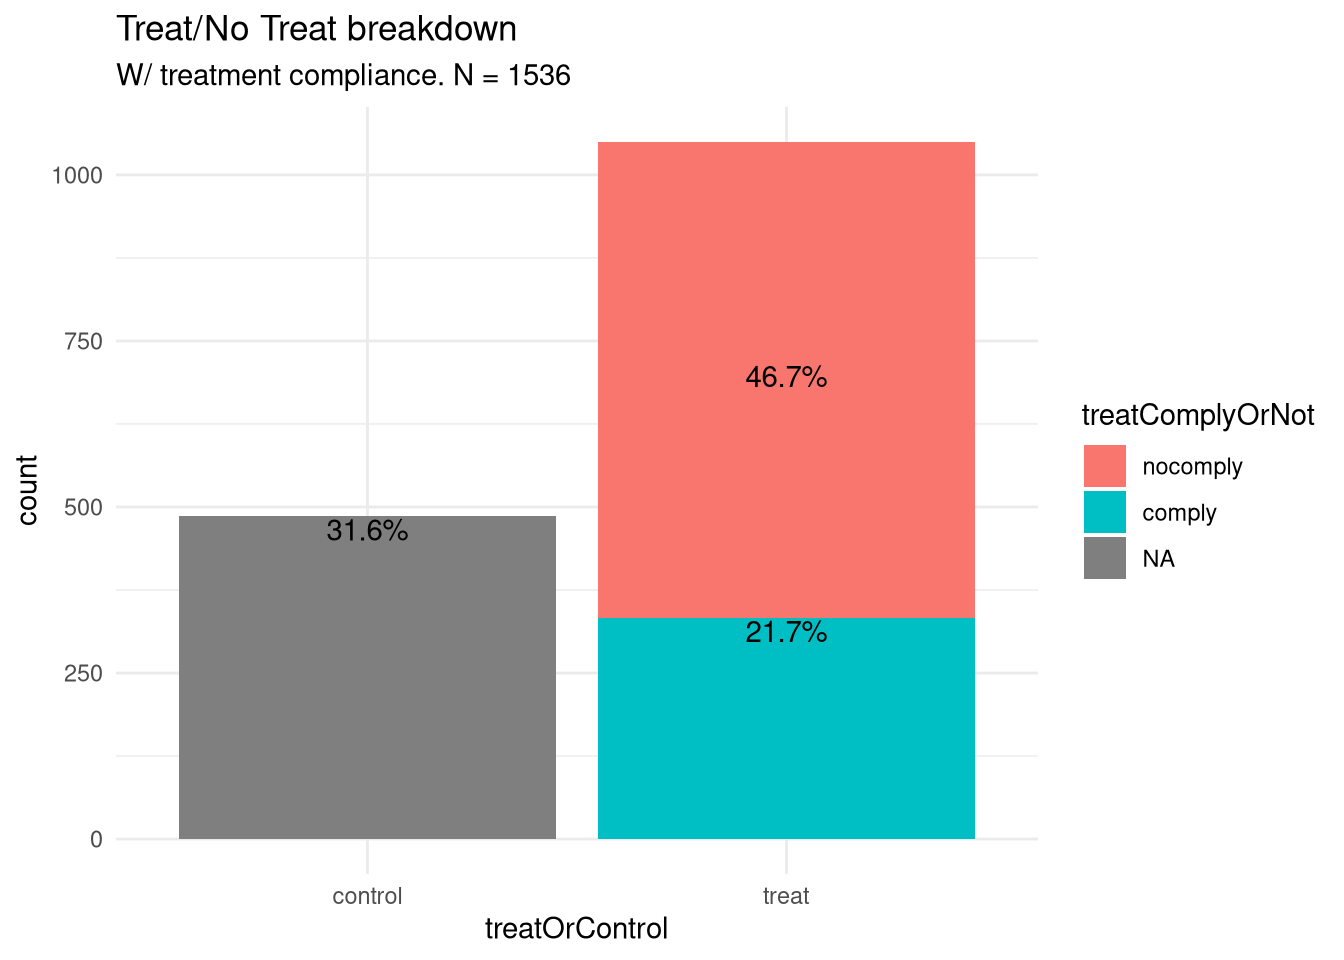
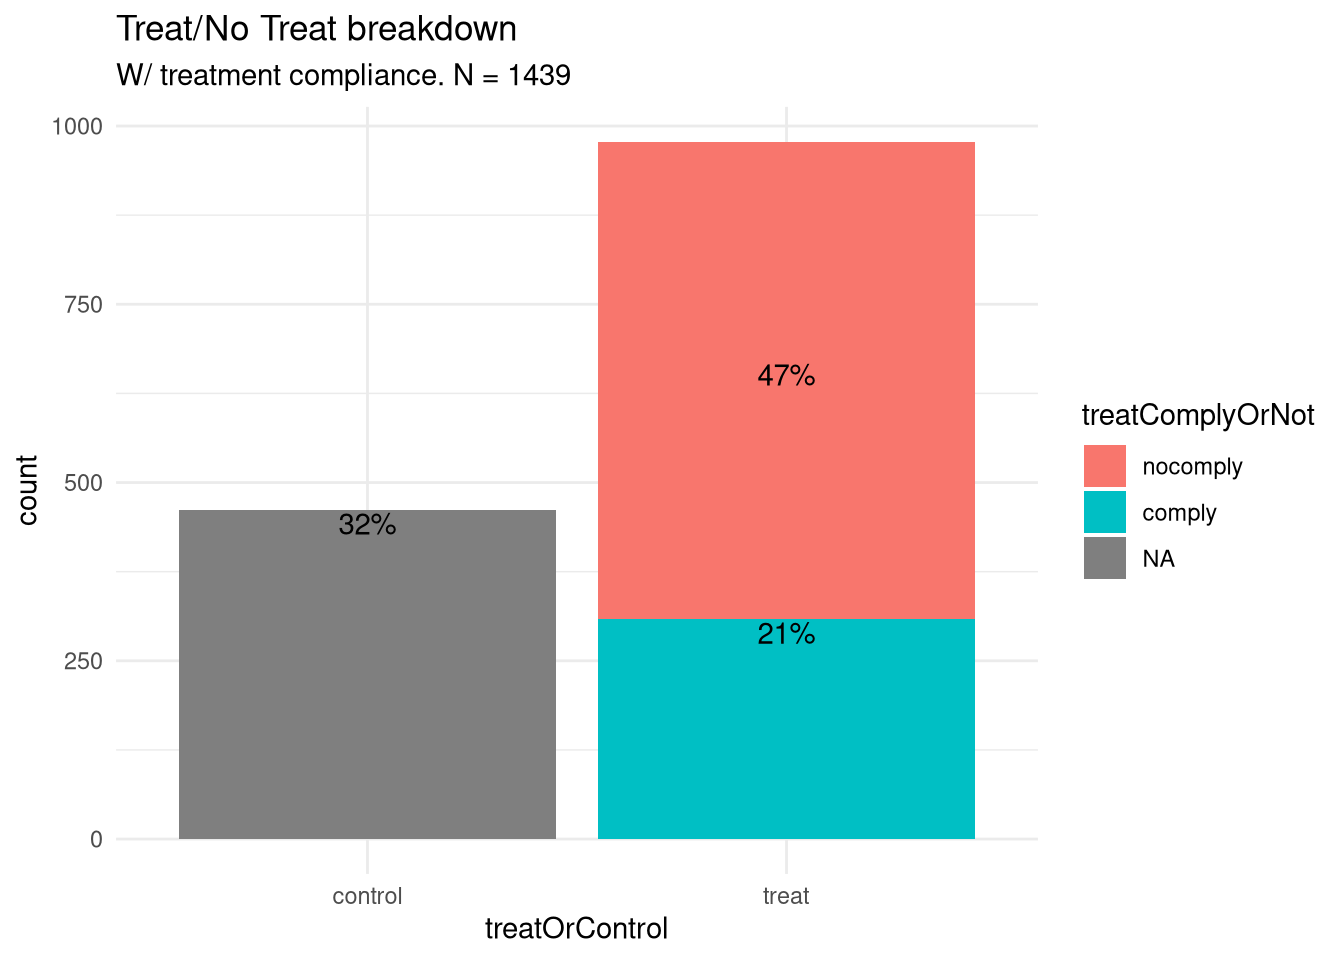
Build site.

diff --git a/docs/summaryStats.html b/docs/summaryStats.html
@@ -409,7 +409,7 @@ div.section {
 <div class="tab-content">
 <div id="summary" class="tab-pane fade in active">
 <p>
-<strong>Last updated:</strong> 2020-03-12
+<strong>Last updated:</strong> 2020-03-13
 </p>
 <p>
 <strong>Checks:</strong> <span class="glyphicon glyphicon-ok text-success" aria-hidden="true"></span> 7 <span class="glyphicon glyphicon-exclamation-sign text-danger" aria-hidden="true"></span> 0
@@ -500,10 +500,10 @@ This reproducible <a href="http://rmarkdown.rstudio.com">R Markdown</a> analysis
 <div class="panel panel-default">
 <div class="panel-heading">
 <p class="panel-title">
-<a data-toggle="collapse" data-parent="#workflowr-checks" href="#strongRepositoryversionstrongahrefhttpsgithubcomshugamoecleanittreed7437a97e2d5e5f9f77a126013894647ae4c606ftargetblankd7437a9a"> <span class="glyphicon glyphicon-ok text-success" aria-hidden="true"></span> <strong>Repository version:</strong> <a href="https://github.com/shugamoe/cleanit/tree/d7437a97e2d5e5f9f77a126013894647ae4c606f" target="_blank">d7437a9</a> </a>
+<a data-toggle="collapse" data-parent="#workflowr-checks" href="#strongRepositoryversionstrongahrefhttpsgithubcomshugamoecleanittreed28a35d62b3b5099a0060314b84d80ab0f6abdb4targetblankd28a35da"> <span class="glyphicon glyphicon-ok text-success" aria-hidden="true"></span> <strong>Repository version:</strong> <a href="https://github.com/shugamoe/cleanit/tree/d28a35d62b3b5099a0060314b84d80ab0f6abdb4" target="_blank">d28a35d</a> </a>
 </p>
 </div>
[2 lines of base64/hex data omitted]
 <div class="panel-body">
 <p>
 Great! You are using Git for version control. Tracking code development and connecting the code version to the results is critical for reproducibility. The version displayed above was the version of the Git repository at the time these results were generated. <br><br> Note that you need to be careful to ensure that all relevant files for the analysis have been committed to Git prior to generating the results (you can use <code>wflow_publish</code> or <code>wflow_git_commit</code>). workflowr only checks the R Markdown file, but you know if there are other scripts or data files that it depends on. Below is the status of the Git repository when the results were generated:
@@ -557,6 +557,40 @@ Message
 </tr>
 </thead>
 <tbody>
+<tr>
+<td>
+Rmd
+</td>
+<td>
+<a href="https://github.com/shugamoe/cleanit/blob/d28a35d62b3b5099a0060314b84d80ab0f6abdb4/analysis/summaryStats.Rmd" target="_blank">d28a35d</a>
+</td>
+<td>
+Julian Chew McClellan
+</td>
+<td>
+2020-03-13
+</td>
+<td>
+Filter non-sensical expectation ratios out of price beliefs. First pass
+</td>
+</tr>
+<tr>
+<td>
+html
+</td>
+<td>
+<a href="https://rawcdn.githack.com/shugamoe/cleanit/e86831f704a36ac3f2492c48a651da150444be63/docs/summaryStats.html" target="_blank">e86831f</a>
+</td>
+<td>
+Julian McClellan
+</td>
+<td>
+2020-03-12
+</td>
+<td>
+Build site.
+</td>
+</tr>
 <tr>
 <td>
 Rmd
@@ -864,9 +898,9 @@ wflow_publish(knitr_in(“analysis/summaryStats.Rmd”), view = T, verbose
 <h2>Clean Sample</h2>
 <ul>
 <li>Initial Size: 2449</li>
-<li>Remove blank email addresses 105</li>
+<li>Remove blank email addresses (105 in raw data).</li>
 <li><code>period</code> column created with values <code>fall12</code> and <code>spring13</code> corresponding to <code>TRUE</code> values of <code>fall12dum</code> and <code>spring13dum</code> respectively.</li>
-<li>Removed 33 responses from those with more than 10 semesters of college.
+<li>Removed responses from those with more than 10 semesters of college. (33 in raw data)
 <ul>
 <li>Note that the clean sample data and price beliefs data appear to have different values of <code>semester</code> and <code>freshdum</code> for the same instances of <code>email</code> and <code>period</code> (loose join conditions). No explanation as of yet.</li>
 </ul></li>
@@ -877,18 +911,19 @@ wflow_publish(knitr_in(“analysis/summaryStats.Rmd”), view = T, verbose
 <h2>Price Beliefs</h2>
 <ul>
 <li>Initial Size: 4785</li>
-<li><strong>Did not</strong> remove unfinished (<code>finished == 0</code>) surveys (537 did not finish.)</li>
+<li><strong>Did not</strong> remove unfinished(?) (<code>finished == 0</code>) surveys (537 did not finish?)</li>
 <li><code>period</code> column created with values <code>fall12</code> and <code>spring13</code>.
 <ul>
 <li><code>startyear</code> and <code>startmonth</code> created from original column <code>startdate</code></li>
 <li><code>period=fall12</code> set if <code>startyear == 2012</code> and (<code>startmonth == 11</code> or <code>startmonth == 12</code>)</li>
 <li><code>period=spring13</code> set if <code>startyear == 2013</code> and <code>startmonth == 4</code></li>
 </ul></li>
-<li>Removed 267 responses from those with more than 10 semesters of college.
+<li>Removed responses from those with more than 10 semesters of college (267 in raw data.)
 <ul>
 <li>Note that the clean sample data and price beliefs data appear to have different values of <code>semester</code> and <code>freshdum</code> for the same instances of <code>email</code> and <code>period</code> (loose join conditions). No explanation as of yet.</li>
 </ul></li>
-<li>Final size: 4518</li>
+<li>Removed expectations of online new price that are &lt; 10% or &gt; 150% of the new bookstore price (12 in raw data.)</li>
+<li>Final size: 4147</li>
 </ul>
 <div id="ongoing-price-belief-work" class="section level3">
 <h3>Ongoing Price Belief Work</h3>
@@ -903,6 +938,43 @@ wflow_publish(knitr_in(“analysis/summaryStats.Rmd”), view = T, verbose
 <div id="price-belief-with-no-treatmentcontrol-information-cant-join-to-clean-sample-data" class="section level4">
 <h4>Price-belief with no treatment/control information (can’t join to Clean Sample data)</h4>
 <p><img src="figure/summaryStats.Rmd/pbonly-1.png" width="672" style="display: block; margin: auto;" /></p>
+<p>
+<button type="button" class="btn btn-default btn-xs btn-workflowr btn-workflowr-fig" data-toggle="collapse" data-target="#fig-pbonly-1">
+Past versions of pbonly-1.png
+</button>
+</p>
+<div id="fig-pbonly-1" class="collapse">
+<div class="table-responsive">
+<table class="table table-condensed table-hover">
+<thead>
+<tr>
+<th>
+Version
+</th>
+<th>
+Author
+</th>
+<th>
+Date
+</th>
+</tr>
+</thead>
+<tbody>
+<tr>
+<td>
+<a href="https://github.com/shugamoe/cleanit/blob/e86831f704a36ac3f2492c48a651da150444be63/docs/figure/summaryStats.Rmd/pbonly-1.png" target="_blank">e86831f</a>
+</td>
+<td>
+Julian McClellan
+</td>
+<td>
+2020-03-12
+</td>
+</tr>
+</tbody>
+</table>
+</div>
+</div>
 </div>
 </div>
 </div>
@@ -1834,7 +1906,7 @@ Platform: x86_64-pc-linux-gnu (64-bit)
 Running under: Manjaro Linux
 
 Matrix products: default
-BLAS:   /usr/lib/libopenblasp-r0.3.8.so
+BLAS:   /usr/lib/libblas.so.3.9.0
 LAPACK: /usr/lib/liblapack.so.3.9.0
 
 locale:
